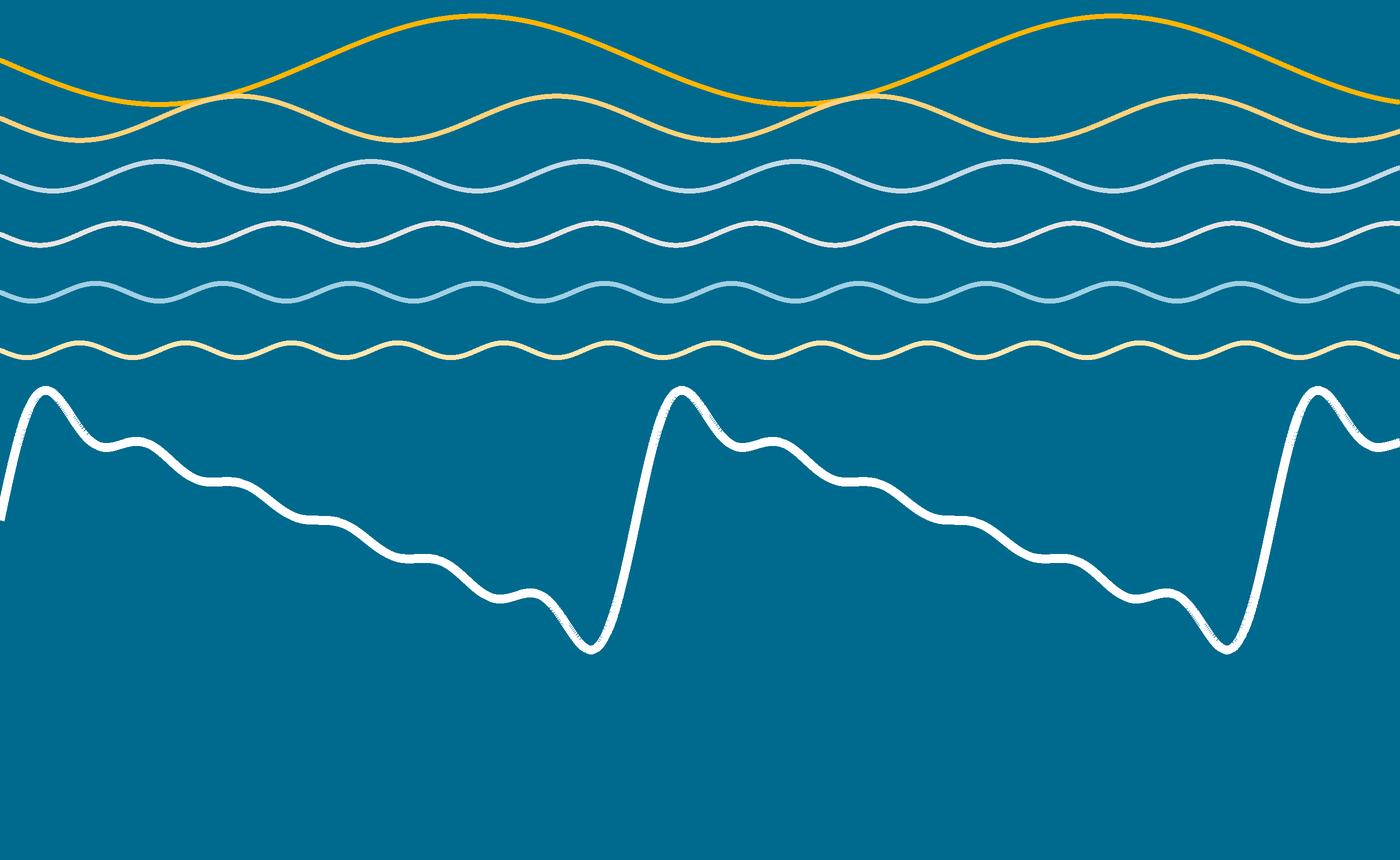
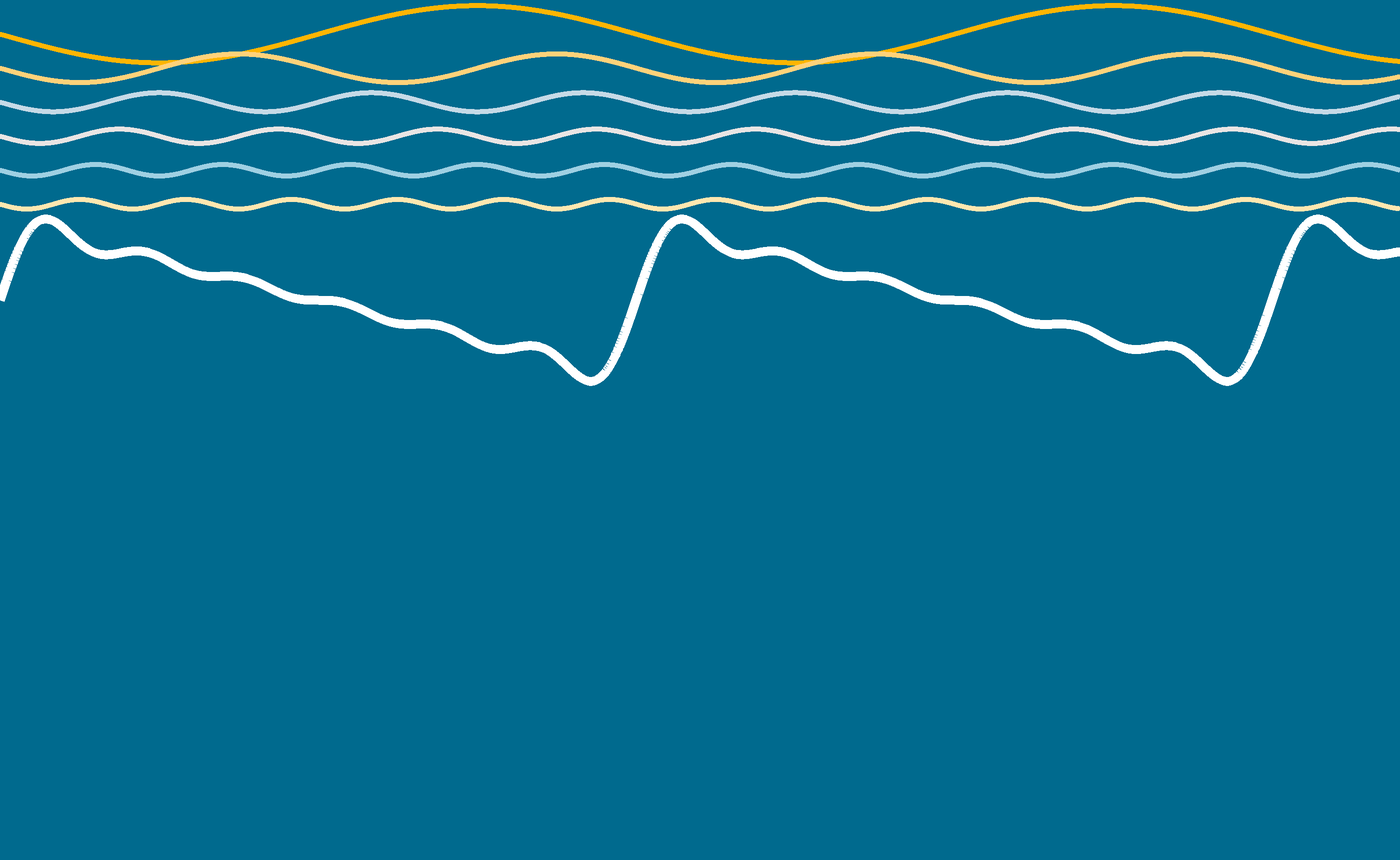
Explore: Sine by Sine waves above the text, shorter wide-tile band, smaller credit lines
Claude-Session: https://claude.ai/code/session_013sx3wfmqissr3fcHHxVhKi

diff --git a/_sass/_soundbendor.scss b/_sass/_soundbendor.scss
@@ -2634,10 +2634,10 @@ $sb-star-canvas: #003b5c;
 .sb-x-foot {
   display: flex;
   flex-wrap: wrap;
-  gap: 0.4rem 0.9rem;
+  gap: 0.4rem 0.8rem;
   align-items: center;
   margin-top: 0.3rem;
-  font-size: 0.85rem;
+  font-size: 0.8rem;
 }
 .sb-x-meta { color: var(--global-text-color-light); }
 .sb-x-meta a { color: #{$beaver-orange}; }
@@ -2702,7 +2702,7 @@ $sb-star-canvas: #003b5c;
   align-content: start;
   background: #101e2c;
 
-  > img { position: static; height: auto; aspect-ratio: 5; object-position: 50% 0; z-index: auto; }
+  > img { position: static; height: auto; aspect-ratio: 5; max-height: 140px; object-fit: contain; object-position: 50% 0; z-index: auto; }
   &::after { display: none; }
 }
 .sb-x-cur.sb-x-band .sb-x-kick { color: rgba(255, 255, 255, 0.9); }
@@ -2723,7 +2723,7 @@ $sb-star-canvas: #003b5c;
 }
 // a full-tile drawing on a colored ground: shade the text area in that ground color
 .sb-x-cur.sb-x-tint::after {
-  background: linear-gradient(to top, var(--sb-ground) 0%, var(--sb-ground) 42%, transparent 82%);
+  background: linear-gradient(to top, var(--sb-ground) 0%, var(--sb-ground) 58%, transparent 80%);
 }
 .sb-x-soon {
   justify-self: start;
